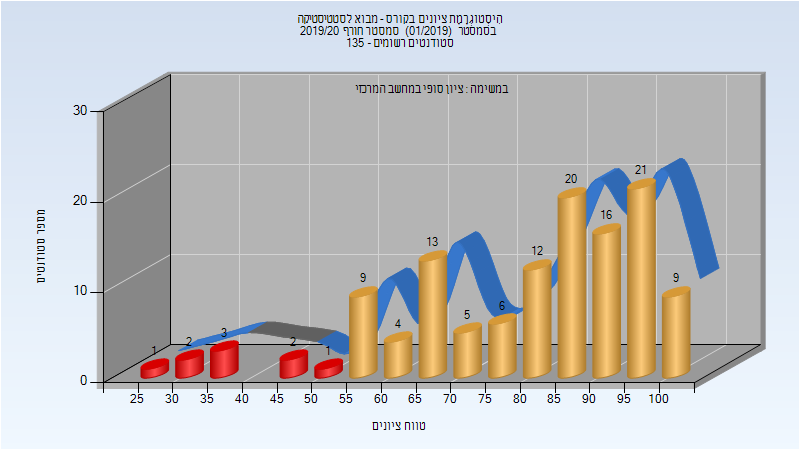
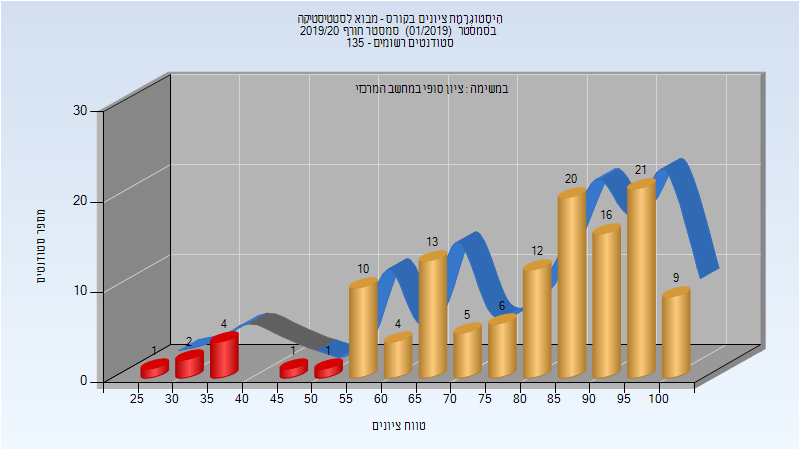
Deploy michael-maltsev/technion-histograms to github.com/michael-maltsev/technion-histograms.git:gh-pages

Changed region(s): [[0.25, 0.6844, 0.4375, 0.84], [0.4375, 0.56, 0.5312, 0.6844]]

diff --git a/094423/index.html b/094423/index.html
@@ -773,12 +773,12 @@
 </thead>
 <tbody>
 <tr>
-<td>124</td>
-<td>115/9</td>
+<td>125</td>
+<td>116/9</td>
 <td>93</td>
 <td>28</td>
 <td>100</td>
-<td>80.048</td>
+<td>79.792</td>
 <td>87</td>
 </tr>
 </tbody>

diff --git a/094423/README.md b/094423/README.md
@@ -241,7 +241,7 @@
 
 | סטודנטים | עברו/נכשלו | אחוז עוברים | ציון מינימלי | ציון מקסימלי | ממוצע | חציון |
 | ---- | ---- | ---- | ---- | ---- | ---- | ---- |
-| 124 | 115/9 | 93 | 28 | 100 | 80.048 | 87 |
+| 125 | 116/9 | 93 | 28 | 100 | 79.792 | 87 |
 
 ## אביב 2020
 
